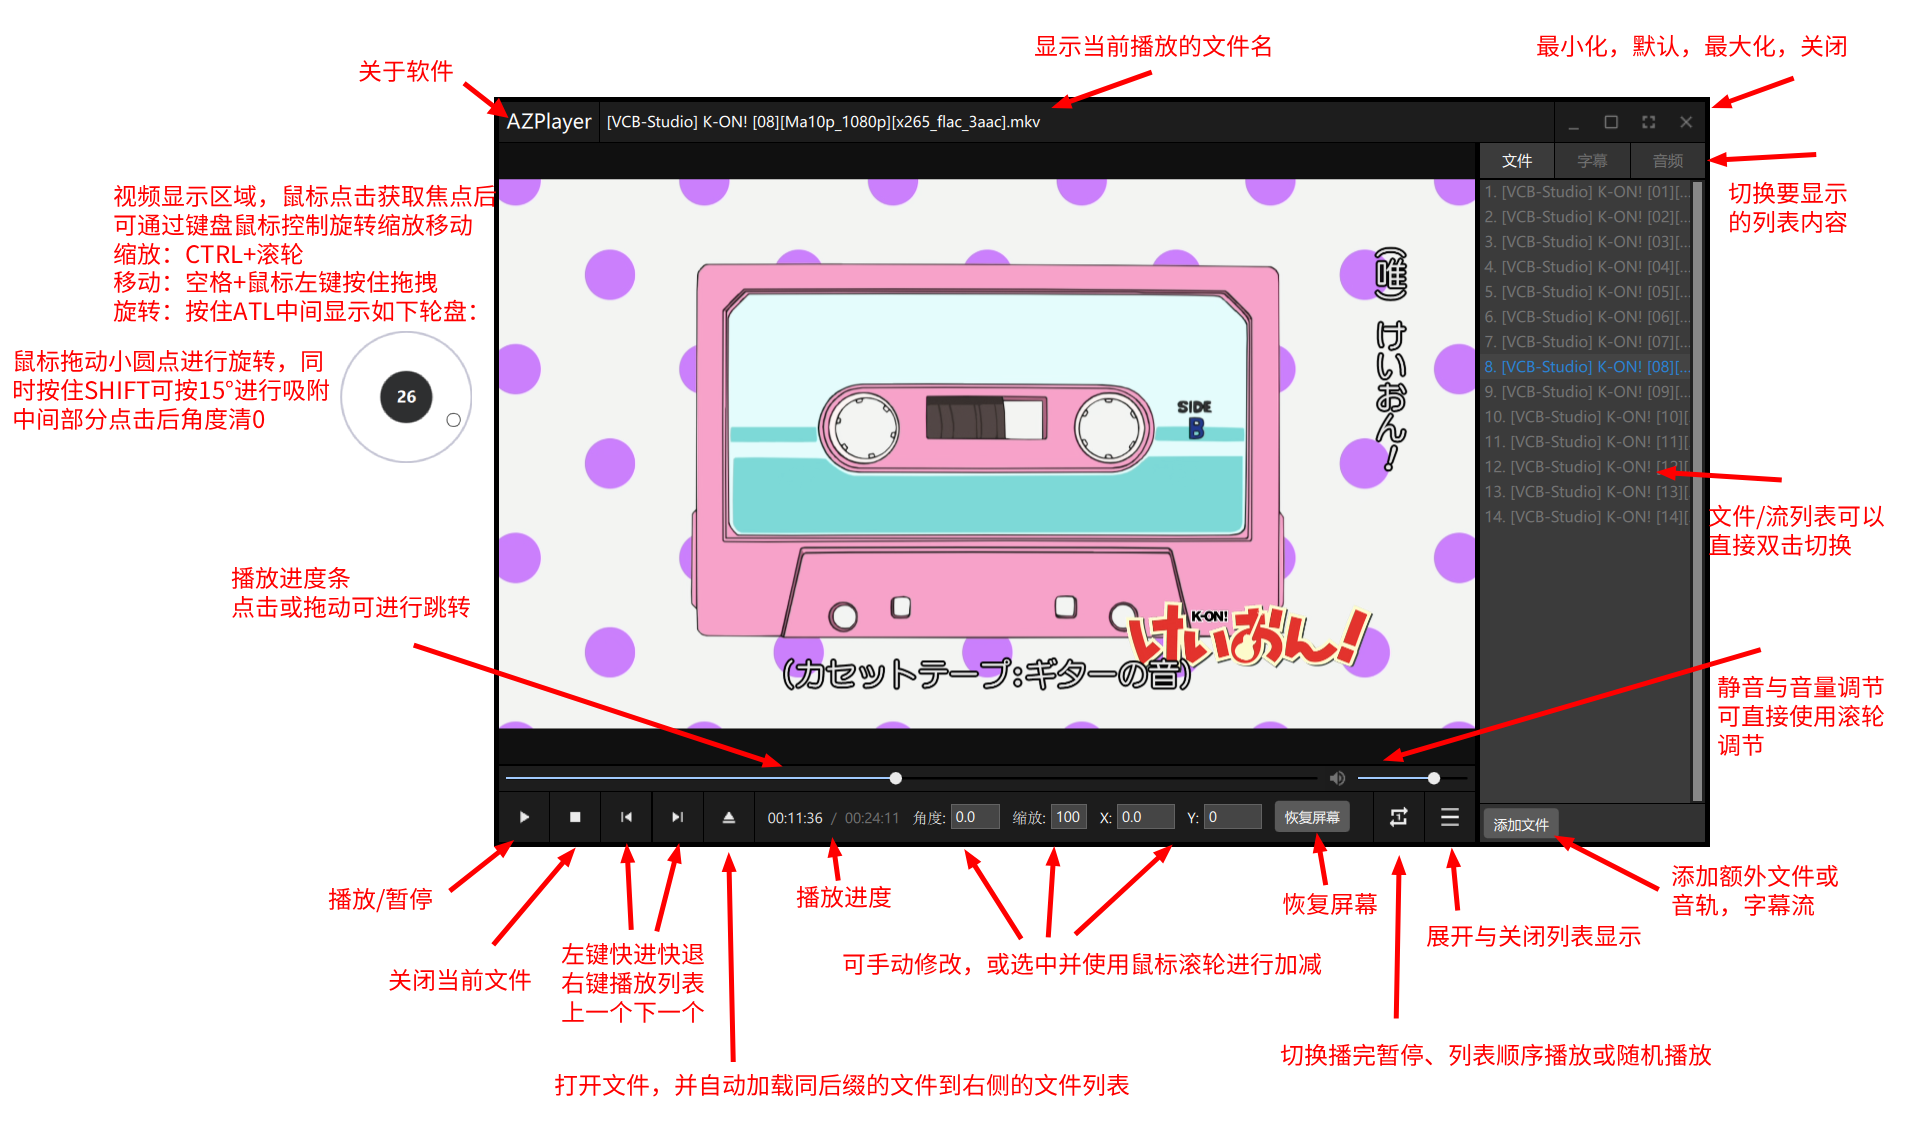
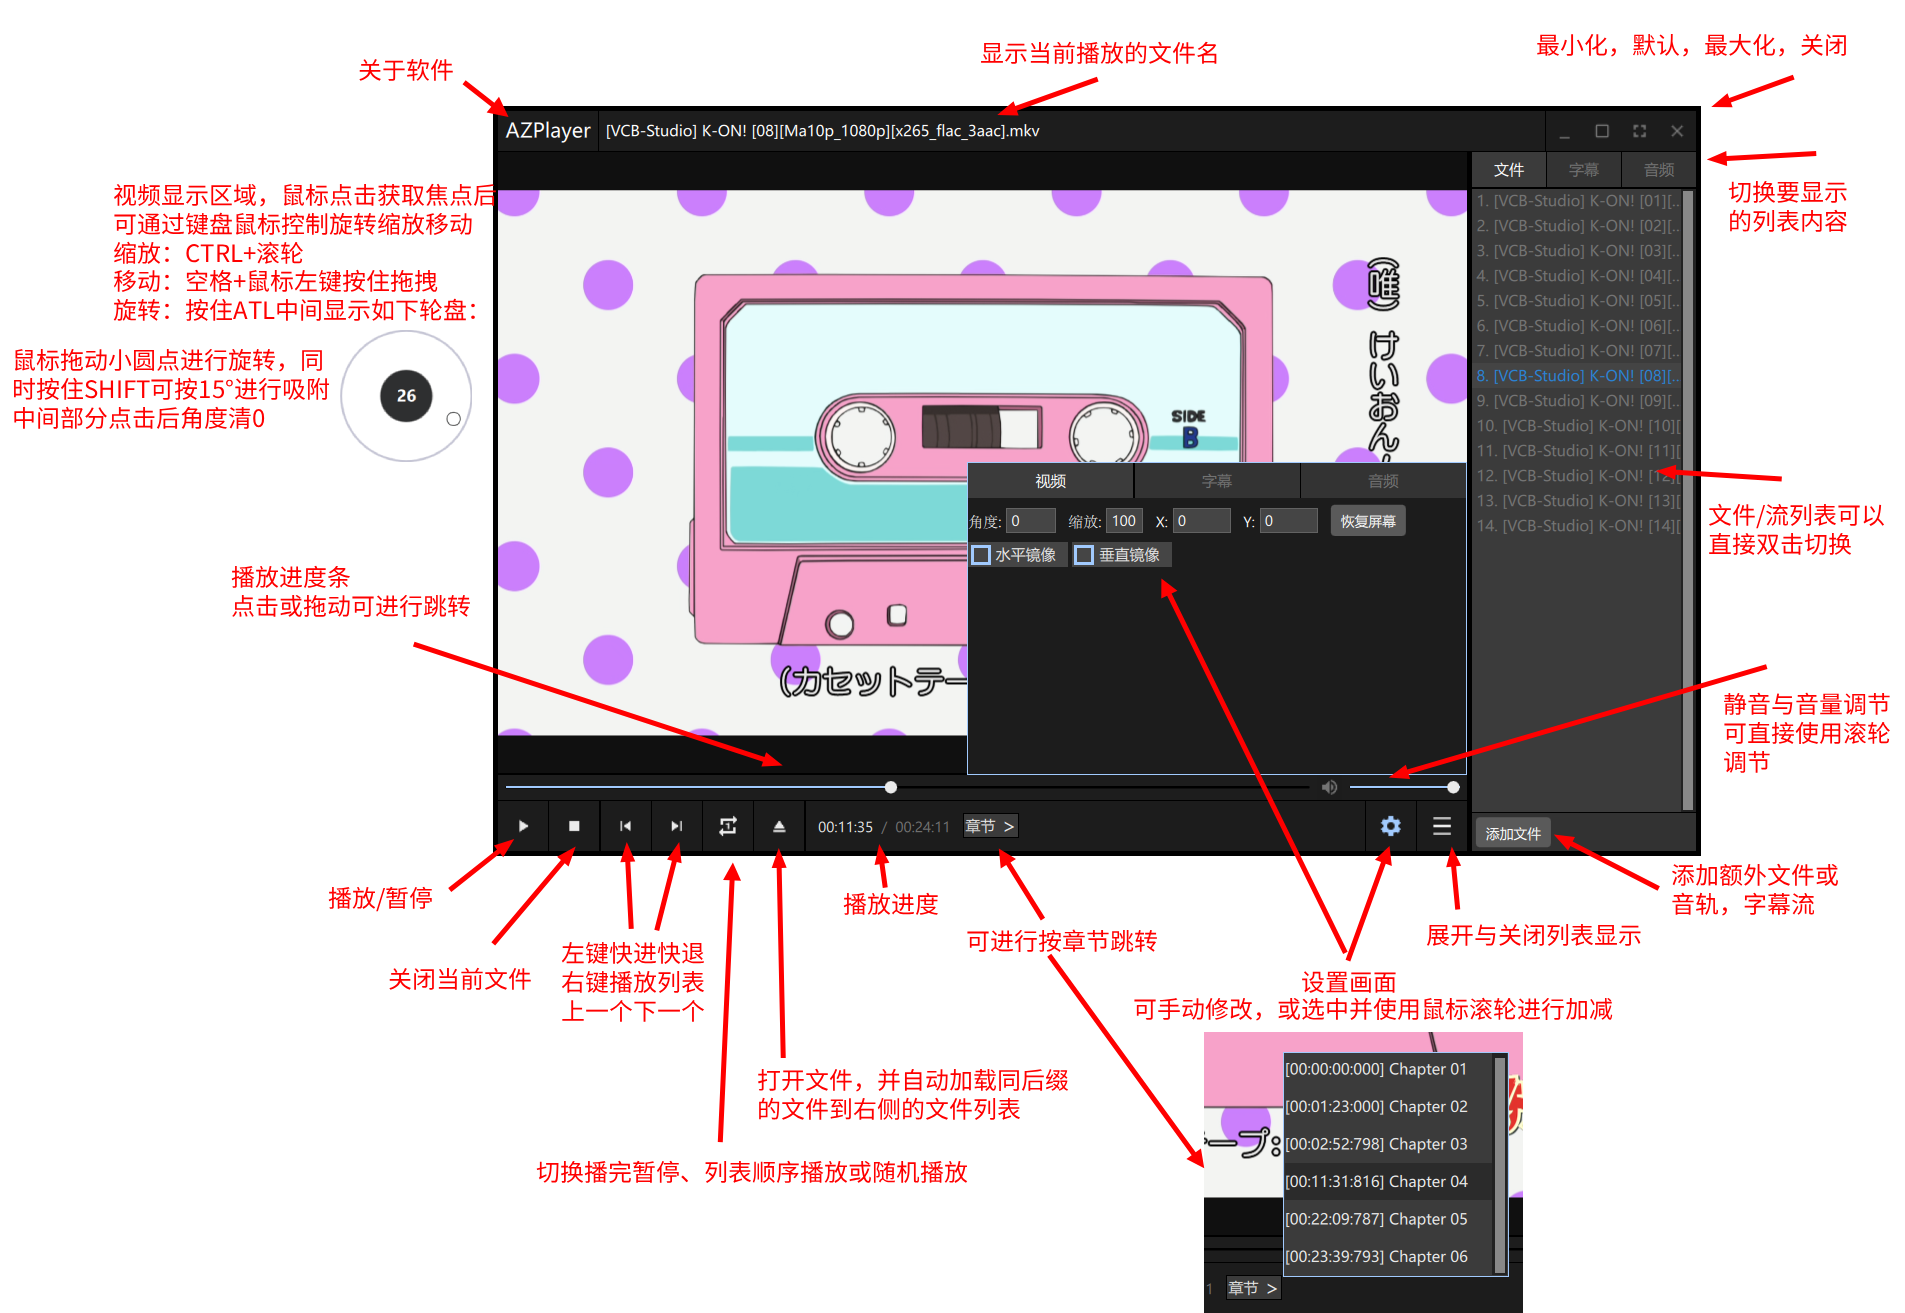
docs: 更新README关于章节的部分

diff --git a/README.md b/README.md
@@ -1,10 +1,10 @@
 # AZPlayer
 
-使用[Qt](https://www.qt.io/)开发的基于[FFmpeg](https://www.ffmpeg.org/)的音视频播放器。支持绝大多数的音频、视频、字幕的播放。支持对显示图像进行旋转、缩放、移动操作。支持音频流与字幕流的切换，以及从外部文件导入音频流或字幕流。
+使用[Qt](https://www.qt.io/)开发的基于[FFmpeg](https://www.ffmpeg.org/)的音视频播放器。支持主流音视频格式、ASS与图形字幕的播放。支持对显示图像进行旋转、缩放、移动、镜像操作。支持音频流与字幕流的切换，以及从外部文件导入音频流或字幕流。
 
 ## 界面/使用
 界面风格参考[Potplayer](https://potplayer.daum.net/)，[功能演示](https://www.bilibili.com/video/BV11M1mBHEMC)
-![](./static/img1.png)
+![一图流](./static/img1.png)
 
 ## 功能 / 可能的开发计划
 
@@ -18,7 +18,7 @@
 - [x] 对显示画面进行旋转、缩放、移动操作
 - [x] 播放文本字幕(已支持ASS字幕)
 - [x] 镜像
-- [ ] 章节显示
+- [x] 章节显示
 - [ ] 倍速
 - [ ] 截图
 - [ ] 单帧播放
